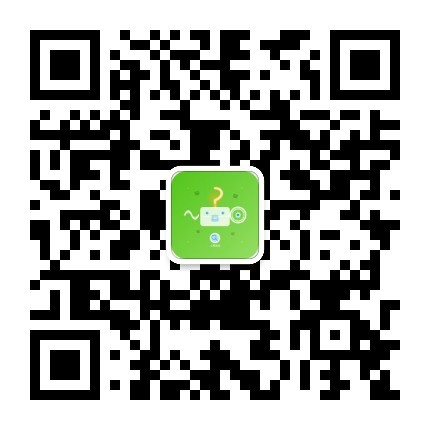
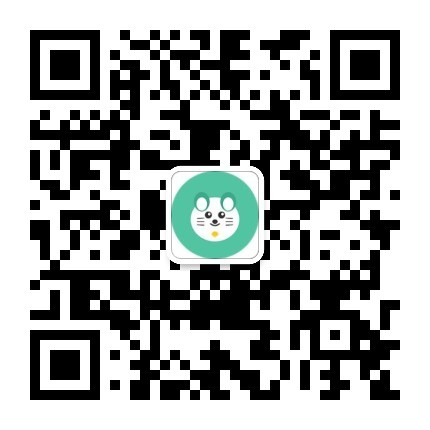
品牌升级：更新应用名称为'小獭记账'
- 更新所有页面和组件中的品牌名称
- 更新Slogan为'聪明记账，轻松理财'
- 更新官网、隐私政策、用户协议
- 更新分享海报和分享文案
- 更新README和文档
- 删除未使用的静态资源图片
- 更新小程序二维码和公众号二维码

Changed region(s): [[0.393, 0.393, 0.6047, 0.6047]]

diff --git a/website/index.html b/website/index.html
@@ -3,9 +3,9 @@
 <head>
     <meta charset="UTF-8">
     <meta name="viewport" content="width=device-width, initial-scale=1.0">
-    <meta name="description" content="钱哪去了 - 智能记账助手，语音记账3秒搞定，拍照识别自动提取">
-    <meta name="keywords" content="记账,智能记账,语音记账,拍照记账,账单管理">
-    <title>钱哪去了 - 智能记账助手</title>
+    <meta name="description" content="小獭记账 - 可爱治愈的智能记账工具，语音记账3秒搞定，拍照识别自动提取">
+    <meta name="keywords" content="记账,智能记账,语音记账,拍照记账,账单管理,小獭记账">
+    <title>小獭记账 - 聪明记账，轻松理财</title>
     <style>
         * {
             margin: 0;
@@ -377,9 +377,9 @@
 <body>
     <div class="container">
         <header>
-            <div class="logo">💰</div>
-            <h1>钱哪去了</h1>
-            <p class="subtitle">智能记账助手 - 让记账像聊天一样简单</p>
+            <div class="logo">🦦</div>
+            <h1>小獭记账</h1>
+            <p class="subtitle">聪明记账，轻松理财 - 像小水獭一样聪明灵活</p>
         </header>
         
         <div class="main-content">
@@ -447,10 +447,10 @@
                 <!-- 微信小程序 -->
                 <div class="download-item">
                     <div class="qr-code">
-                        <img src="miniprogram-qrcode.jpg" alt="微信小程序二维码" style="width: 100%; height: 100%; border-radius: 10px;">
+                        <img src="miniprogram-qrcode.jpg?v=20260304-2" alt="微信小程序二维码" style="width: 100%; height: 100%; border-radius: 10px;">
                     </div>
-                    <p class="download-text">微信长按识别"钱哪去了"</p>
-                    <p class="download-text download-subtext">或公众号搜索"钱哪去了"</p>
+                    <p class="download-text">微信长按识别"小獭记账"</p>
+                    <p class="download-text download-subtext">或公众号搜索"小獭记账"</p>
                 </div>
                 
                 <!-- 安卓应用 -->
@@ -465,9 +465,9 @@
                 <!-- 微信公众号 -->
                 <div class="download-item">
                     <div class="qr-code">
-                        <img src="gongzhonghao.jpg" alt="微信公众号二维码" style="width: 100%; height: 100%; border-radius: 10px;">
+                        <img src="gongzhonghao.jpg?v=20260304" alt="微信公众号二维码" style="width: 100%; height: 100%; border-radius: 10px;">
                     </div>
-                    <p class="download-text">关注公众号"钱哪去了"</p>
+                    <p class="download-text">关注公众号"小獭记账"</p>
                     <p class="download-text download-subtext">获取最新功能和优惠</p>
                 </div>
             </div>
@@ -475,7 +475,7 @@
         </div>
         
         <footer>
-            <p>&copy; 2026 钱哪去了. All rights reserved.</p>
+            <p>&copy; 2026 小獭记账. All rights reserved.</p>
             <div class="footer-links">
                 <a href="privacy.html">隐私政策</a>
                 <a href="terms.html">用户协议</a>

diff --git a/pages/agreement/agreement.vue b/pages/agreement/agreement.vue
@@ -2,14 +2,14 @@
 	<view class="agreement-page">
 		<scroll-view class="agreement-content" scroll-y>
 			<view class="container">
-				<view class="title">钱哪去了 - 用户协议</view>
+				<view class="title">小獭记账 - 用户协议</view>
 				
 				<view class="section">
-					<text class="text">欢迎您使用"钱哪去了"！</text>
+					<text class="text">欢迎您使用"小獭记账"！</text>
 				</view>
 				
 				<view class="section">
-					<text class="text">在使用"钱哪去了"服务之前，请您仔细阅读并充分理解本《用户协议》（以下简称"本协议"）。<text class="highlight">请您特别注意限制、免责条款，以及开通或使用某项服务的单独协议。</text></text>
+					<text class="text">在使用"小獭记账"服务之前，请您仔细阅读并充分理解本《用户协议》（以下简称"本协议"）。<text class="highlight">请您特别注意限制、免责条款，以及开通或使用某项服务的单独协议。</text></text>
 				</view>
 				
 				<view class="section">
@@ -19,7 +19,7 @@
 				<view class="section-title">一、服务说明</view>
 				
 				<view class="section">
-					<text class="text">"钱哪去了"是一款个人记账应用，为用户提供以下服务：</text>
+					<text class="text">"小獭记账"是一款个人记账应用，为用户提供以下服务：</text>
 					<text class="list-item">• 账单记录与管理</text>
 					<text class="list-item">• 收支统计与分析</text>
 					<text class="list-item">• OCR小票识别</text>
@@ -68,7 +68,7 @@
 				<view class="section-title">五、知识产权</view>
 				
 				<view class="section">
-					<text class="text">"钱哪去了"的所有内容，包括但不限于文字、图片、软件、程序、界面设计等，均归我们或相关权利人所有。未经授权，您不得复制、传播、修改或用于商业用途。</text>
+					<text class="text">"小獭记账"的所有内容，包括但不限于文字、图片、软件、程序、界面设计等，均归我们或相关权利人所有。未经授权，您不得复制、传播、修改或用于商业用途。</text>
 				</view>
 				
 				<view class="section-title">六、隐私保护</view>
@@ -91,7 +91,7 @@
 				<view class="section-title">八、服务费用</view>
 				
 				<view class="section">
-					<text class="text">目前，"钱哪去了"的基础功能免费提供。我们保留在未来推出付费功能或服务的权利，届时会提前通知您。</text>
+					<text class="text">目前，"小獭记账"的基础功能免费提供。我们保留在未来推出付费功能或服务的权利，届时会提前通知您。</text>
 				</view>
 				
 				<view class="section-title">九、协议的变更</view>

diff --git a/pages/privacy/privacy.vue b/pages/privacy/privacy.vue
@@ -2,21 +2,21 @@
 	<view class="privacy-page">
 		<scroll-view class="privacy-content" scroll-y>
 			<view class="container">
-				<view class="title">钱哪去了 - 隐私政策</view>
+				<view class="title">小獭记账 - 隐私政策</view>
 				
 				<view class="section">
-					<text class="text">【钱哪去了】深知个人信息对您的重要性，我们将按法律法规要求，采取相应的安全保护措施，尽力保护您的个人信息安全可控。本隐私政策适用于"钱哪去了"提供的所有产品和服务。</text>
+					<text class="text">【小獭记账】深知个人信息对您的重要性，我们将按法律法规要求，采取相应的安全保护措施，尽力保护您的个人信息安全可控。本隐私政策适用于"小獭记账"提供的所有产品和服务。</text>
 				</view>
 				
 				<view class="section">
-					<text class="text">在使用"钱哪去了"各项产品或服务前，请您务必仔细阅读并透彻理解本政策，特别是以<text class="highlight">粗体标识的条款</text>，您应重点阅读。如对本政策内容有任何疑问、意见或建议，您可通过本政策提供的联系方式与我们联系。</text>
+					<text class="text">在使用"小獭记账"各项产品或服务前，请您务必仔细阅读并透彻理解本政策，特别是以<text class="highlight">粗体标识的条款</text>，您应重点阅读。如对本政策内容有任何疑问、意见或建议，您可通过本政策提供的联系方式与我们联系。</text>
 				</view>
 				
 				<view class="section-title">一、我们如何收集和使用您的信息</view>
 				
 				<view class="sub-title">（一）账户注册与登录</view>
 				<view class="section">
-					<text class="text">为了使用"钱哪去了"的记账服务，您需要注册账户。我们会收集您的<text class="highlight">手机号码</text>用于账户注册和登录。您也可以选择使用<text class="highlight">微信授权登录</text>，我们会获取您的<text class="highlight">微信昵称、头像</text>等基本信息。</text>
+					<text class="text">为了使用"小獭记账"的记账服务，您需要注册账户。我们会收集您的<text class="highlight">手机号码</text>用于账户注册和登录。您也可以选择使用<text class="highlight">微信授权登录</text>，我们会获取您的<text class="highlight">微信昵称、头像</text>等基本信息。</text>
 				</view>
 				
 				<view class="sub-title">（二）记账功能</view>

diff --git a/privacy.html b/privacy.html
@@ -3,7 +3,7 @@
 <head>
 	<meta charset="UTF-8" />
 	<meta name="viewport" content="width=device-width, initial-scale=1.0" />
-	<title>钱哪去了 - 隐私政策</title>
+	<title>小獭记账 - 隐私政策</title>
 	<style>
 		body {
 			font-family: Arial, sans-serif;
@@ -36,19 +36,19 @@
 </head>
 <body>
 	<div class="container">
-		<h1>钱哪去了 - 隐私政策</h1>
+		<h1>小獭记账 - 隐私政策</h1>
 		<p>
-			【钱哪去了】深知个人信息对您的重要性，我们将按法律法规要求，采取相应的安全保护措施，尽力保护您的个人信息安全可控。本隐私政策适用于"钱哪去了"提供的所有产品和服务。
+			【小獭记账】深知个人信息对您的重要性，我们将按法律法规要求，采取相应的安全保护措施，尽力保护您的个人信息安全可控。本隐私政策适用于"小獭记账"提供的所有产品和服务。
 		</p>
 		<p>
-			在使用"钱哪去了"各项产品或服务前，请您务必仔细阅读并透彻理解本政策，特别是以<span>粗体标识的条款</span>，您应重点阅读。如对本政策内容有任何疑问、意见或建议，您可通过本政策提供的联系方式与我们联系。
+			在使用"小獭记账"各项产品或服务前，请您务必仔细阅读并透彻理解本政策，特别是以<span>粗体标识的条款</span>，您应重点阅读。如对本政策内容有任何疑问、意见或建议，您可通过本政策提供的联系方式与我们联系。
 		</p>
 
 		<h2>一、我们如何收集和使用您的信息</h2>
 		
 		<h3>（一）账户注册与登录</h3>
 		<p>
-			为了使用"钱哪去了"的记账服务，您需要注册账户。我们会收集您的<span>手机号码</span>用于账户注册和登录。您也可以选择使用<span>微信授权登录</span>，我们会获取您的<span>微信昵称、头像</span>等基本信息。
+			为了使用"小獭记账"的记账服务，您需要注册账户。我们会收集您的<span>手机号码</span>用于账户注册和登录。您也可以选择使用<span>微信授权登录</span>，我们会获取您的<span>微信昵称、头像</span>等基本信息。
 		</p>
 
 		<h3>（二）记账功能</h3>

diff --git a/pages/settings/about.vue b/pages/settings/about.vue
@@ -15,8 +15,8 @@
 			<!-- Logo 和标题 -->
 			<view class="header-section">
 				<image class="app-logo" src="/static/logo.png" mode="aspectFit"></image>
-				<view class="app-name">钱哪去了</view>
-				<view class="app-slogan">让记账变得简单有趣</view>
+				<view class="app-name">小獭记账</view>
+				<view class="app-slogan">聪明记账，轻松理财</view>
 				<view class="version">v{{ appVersion }}</view>
 			</view>
 			
@@ -52,10 +52,10 @@
 				<view class="section-title">产品介绍</view>
 				<view class="intro-card">
 					<view class="intro-text">
-						钱哪去了是一款简洁实用的记账小程序，致力于帮助用户轻松管理每一笔收支。
+						小獭记账是一款可爱治愈的智能记账工具，像小水獭一样聪明灵活，帮你轻松管理每一笔收支。
 					</view>
 					<view class="intro-text">
-						我们提供语音记账、拍照记账等多种便捷方式，让记账变得像聊天一样简单。智能统计功能帮你清晰了解消费习惯，合理规划财务。
+						我们提供拍照识别、语音记账等多种便捷方式,让记账变得简单有趣。智能统计功能帮你清晰了解消费习惯，合理规划财务。
 					</view>
 					<view class="intro-text">
 						数据云端同步，换手机也不怕。我们重视用户隐私，所有数据加密存储，安全可靠。
@@ -131,7 +131,7 @@
 			
 			<!-- 底部信息 -->
 			<view class="footer-section">
-				<view class="footer-text">© 2026 钱哪去了</view>
+				<view class="footer-text">© 2026 小獭记账</view>
 				<view class="footer-text">用心做好每一个功能</view>
 			</view>
 		</view>

diff --git a/user-agreement.html b/user-agreement.html
@@ -3,7 +3,7 @@
 <head>
 	<meta charset="UTF-8" />
 	<meta name="viewport" content="width=device-width, initial-scale=1.0" />
-	<title>钱哪去了 - 用户协议</title>
+	<title>小獭记账 - 用户协议</title>
 	<style>
 		body {
 			font-family: Arial, sans-serif;
@@ -36,9 +36,9 @@
 </head>
 <body>
 	<div class="container">
-		<h1>钱哪去了 - 用户协议</h1>
+		<h1>小獭记账 - 用户协议</h1>
 		<p>
-			欢迎使用"钱哪去了"！本协议是您（以下简称"用户"）与"钱哪去了"（以下简称"我们"或"本应用"）之间的法律协议。请您仔细阅读本协议，特别是以<span>粗体标识的条款</span>。
+			欢迎使用"小獭记账"！本协议是您（以下简称"用户"）与"小獭记账"（以下简称"我们"或"本应用"）之间的法律协议。请您仔细阅读本协议，特别是以<span>粗体标识的条款</span>。
 		</p>
 		<p>
 			<span>重要提示</span>：当您点击"同意"或开始使用本应用时，即表示您已充分阅读、理解并同意接受本协议的全部内容。如果您不同意本协议的任何内容，请立即停止使用本应用。
@@ -46,7 +46,7 @@
 
 		<h2>一、服务说明</h2>
 		<p>
-			"钱哪去了"是一款个人记账管理应用，为用户提供以下服务：
+			"小獭记账"是一款个人记账管理应用，为用户提供以下服务：
 		</p>
 		<ul>
 			<li>• 快速记账：手动记账、拍照识别、语音记账</li>

diff --git a/components/ShareModal.vue b/components/ShareModal.vue
@@ -48,7 +48,7 @@ const shareToWechatFriend = () => {
 		scene: 'WXSceneSession',
 		type: 0,
 		title: '语音拍照记账，3秒搞定！消费一目了然',
-		summary: '钱哪去了 - 轻松管理每一笔',
+		summary: '小獭记账 - 聪明记账，轻松理财',
 		href: 'https://api.qiannaqule.top',
 		imageUrl: '/static/shareLine.png',
 		success: () => {
@@ -66,7 +66,7 @@ const shareToWechatMoments = () => {
 		provider: 'weixin',
 		scene: 'WXSceneTimeline',
 		type: 0,
-		title: '钱哪去了 - 语音拍照记账，轻松管理每一笔',
+		title: '小獭记账 - 聪明记账，轻松理财',
 		summary: '语音拍照记账，3秒搞定！消费一目了然',
 		href: 'https://api.qiannaqule.top',
 		imageUrl: '/static/shareLine.png',

diff --git a/website/terms.html b/website/terms.html
@@ -3,7 +3,7 @@
 <head>
     <meta charset="UTF-8">
     <meta name="viewport" content="width=device-width, initial-scale=1.0">
-    <title>用户协议 - 钱哪去了</title>
+    <title>用户协议 - 小獭记账</title>
     <style>
         * {
             margin: 0;
@@ -77,7 +77,7 @@
         <p class="update-time">更新日期：2026年2月7日</p>
         
         <h2>1. 服务说明</h2>
-        <p>"钱哪去了"是一款智能记账应用，为用户提供账单记录、数据统计、语音识别、拍照识别等服务。</p>
+        <p>"小獭记账"是一款智能记账应用，为用户提供账单记录、数据统计、语音识别、拍照识别等服务。</p>
         
         <h2>2. 账户注册</h2>
         <ul>

diff --git a/share-poster.html b/share-poster.html
@@ -3,7 +3,7 @@
 <head>
     <meta charset="UTF-8">
     <meta name="viewport" content="width=device-width, initial-scale=1.0">
-    <title>钱哪去了 - 分享图</title>
+    <title>小獭记账 - 分享图</title>
     <style>
         * {
             margin: 0;
@@ -216,8 +216,8 @@
             <div class="content">
                 <!-- 标题 -->
                 <div class="header">
-                    <div class="title">钱哪去了？</div>
-                    <div class="subtitle">3秒记一笔，月底不迷糊</div>
+                    <div class="title">小獭记账</div>
+                    <div class="subtitle">聪明记账，轻松理财</div>
                 </div>
 
                 <!-- 核心亮点 -->

diff --git a/locale/zh-CN.js b/locale/zh-CN.js
@@ -27,7 +27,7 @@ export default {
   },
   
   home: {
-    title: '钱哪去了',
+    title: '小獭记账',
     monthlyIncome: '本月收入',
     monthlyExpense: '本月支出',
     balance: '结余',
@@ -146,7 +146,7 @@ export default {
   
   about: {
     title: '关于我们',
-    appName: '钱哪去了',
+    appName: '小獭记账',
     version: '版本',
     description: '智能记账助手，让记账像聊天一样简单'
   }

diff --git a/pages/user/login.vue b/pages/user/login.vue
@@ -10,8 +10,8 @@
 			<!-- Logo和标题 -->
 			<view class="header-section">
 				<image class="app-logo" src="/static/logo.png" mode="aspectFit"></image>
-				<text class="app-name">钱哪去了</text>
-				<text class="app-slogan">让每一笔支出都清晰可见</text>
+				<text class="app-name">小獭记账</text>
+				<text class="app-slogan">聪明记账，轻松理财</text>
 			</view>
 			
 			<!-- 登录卡片 -->

diff --git a/components/UpdateModal.vue b/components/UpdateModal.vue
@@ -210,7 +210,7 @@ const jumpToMarket = () => {
 			console.error('打开应用市场失败:', error)
 			uni.showModal({
 				title: '提示',
-				content: '无法打开应用市场，请手动前往应用市场搜索"钱哪去了"进行更新',
+				content: '无法打开应用市场，请手动前往应用市场搜索"小獭记账"进行更新',
 				showCancel: false
 			})
 		})
